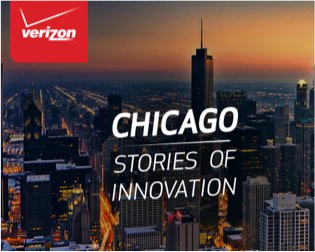
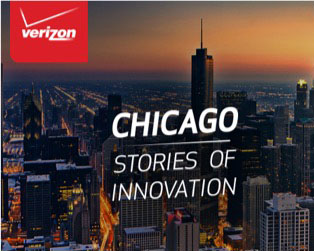
animations working !
rollover and animations working - hooray!

diff --git a/works.html b/works.html
@@ -37,55 +37,59 @@
 		      </ul>
 		 </div>
 	</div>
-	
-		<div class="box box-left all uxd mobile">
+	<div class="outer-wrapper">
+		<div id="box1" class="box all uxd mobile">
 			<div class="inner-wrapper">
-				<a href="portfolio_item.html"><img class="portfolio-thumb" src="images/thumb_chicago.jpg" alt="Verizon Chicago Timeline"></a>
+				<a href="portfolio_item.html"><img class="portfolio-thumb" src="images/thumb_chicago.jpg" alt="Verizon Chicago Timeline">
+				 <span class="overlay"><span><h4>Verizon Chicago Timeline</h4></span></span>
+				 </a>
 			</div>
-			<div class="overlay"><h3>Verizon Chicago Timeline</h3></div>
+			
 		</div>
-		<div class="box all uxd mobile">
+		<div  id="box2" class="box all uxd mobile">
 			<div class="inner-wrapper">
 				<img class="portfolio-thumb" src="images/thumb_verizon_phones.jpg" alt="Verizon Phone Picker">
+				<span class="overlay"><span><h4>Verizon Phone Picker</h4></span></span>
 			</div>
-			<div class="overlay"><h3>Verizon Phone Picker</h3></div>
 		</div>
-		<div class="box box-right all research">
+		<div  id="box3" class="box all research">
 			<div class="inner-wrapper">
 				<img class="portfolio-thumb" src="images/thumb_amex_disputes.jpg" alt="American Express Disputes Redesign">
+				<span class="overlay"><span><h4>American Experess Disputes</h4></span></span>
 			</div>
-			<div class="overlay"><h3>American Experss Disputes</h3></div>
+		
 		</div>
-		<div class="box box-left all uxd">
+		<div  id="box4" class="box all uxd">
 			<div class="inner-wrapper">
 				<a href="portfolio_item.html"><img class="portfolio-thumb" src="images/thumb_verizon_cms.jpg" alt="Verizon Retail CMS"></a>
 			</div>
 		</div>
-		<div class="box all uxd">
+		<div  id="box5" class="box all uxd">
 			<div class="inner-wrapper">
 				<img class="portfolio-thumb" src="images/thumb_details_home.jpg" alt="Details Home Page">
 			</div>
 		</div>
-		<div class="box box-right all research uxd touchscreen">
+		<div  id="box6" class="box all research uxd touchscreen">
 			<div class="inner-wrapper">
 				<img class="portfolio-thumb" src="images/thumb_capco.jpg" alt="Capco Innovation Center">
 			</div>
 		</div>
-		<div class="box box-left all mobile">
+		<div  id="box7" class="box all mobile">
 			<div class="inner-wrapper">
 				<a href="portfolio_item.html"><img class="portfolio-thumb" src="images/thumb_roebling.jpg" alt="Roebling's Brooklyn Bridge Tour"></a>
 			</div>
 		</div>
-		<div class="box all uxd ui touchscreen">
+		<div  id="box8" class="box all uxd ui touchscreen">
 			<div class="inner-wrapper">
 				<img class="portfolio-thumb" src="images/thumb_esilobby.jpg" alt="ESI Lobby">
 			</div>
 		</div>
-		<div class="box box-right all uxd">
+		<div  id="box9" class="box all uxd">
 			<div class="inner-wrapper">
 				<img class="portfolio-thumb" src="images/thumb_details_wires.jpg" alt="Details IA">
 			</div>
 		</div>
+	</div>
 
 	
 <script type="text/javascript" src="js/index.js"></script>

diff --git a/css/style.css b/css/style.css
@@ -202,23 +202,22 @@ a.smallnav:hover{
 	color:#0076BC;
 }
 
-/*this is not working for some reason...*/
-a.active:link{
+a.smallnav.active:link,
+a.smallnav.active:visited{
 	color:#0076BC;
+}
+.outer-wrapper{
+	padding:0px 20px;
 }
 
 .box{
 	width:33.33%;
 	float:left;	
-	padding: 0 20px;
-	height:254px;
-	margin-bottom:20px;
-}
-.box-left{
-  padding-right:0;
-}
-.box-right{
-  padding-left:0;
+	padding: 10px;
+	margin-top:150px;
+	opacity: 0;
+	/*padding-bottom: 10px;
+	/*height:254px;*/*/
 }
 
 .inner-wrapper{
@@ -227,15 +226,30 @@ a.active:link{
 	height:100%;
 	border: 1px solid #ccc;
 }
-/*.overlay{
-	    position: relative;
-        width: 100%;
-        height: 100%;
-        top: 0;
-        left: 0;
-        z-index: 3;
-        background-color: rgba(0,0,0,0.8); 
-        content: "";
+span.overlay{
+    position: absolute;
+    width: 100%;
+    height: 100%;
+    top: 0;
+    left: 0;
+    background-color: rgba(0,0,0,0.8); 
+    color:white;
+    opacity:0;
+    z-index: 1;
+}
+
+span.overlay span {
+    display: table;
+    width: 100%;
+    height: 100%;
+}
+span.overlay h4 {
+	display:table-cell;
+	text-align:center;
+	vertical-align:middle;
+}
+/*.box:hover .overlay {
+    opacity:1;
 }*/
 /*.inner-wrapper:hover {
         position: relative;
@@ -243,8 +257,6 @@ a.active:link{
         height: 100%;
         top: 0;
         left: 0;
-        z-index: 900;
-        background-color: rgba(0,0,0,0.8); 
         content: "";
  }*/
 
@@ -259,16 +271,17 @@ a.active:link{
 	margin-left:auto;
 	margin-right:auto;
 	position:relative;
-	/*width:100%;
-	height:100%;*/
+	z-index: 1;
+	width:100%;
+	/*height:100%;*/
 }
 
-h3{
+h4{
     font-family: 'Poppins', 'Arial', 'Helvetica', sans-serif;
 	font-size:18px;
 	font-weight: 500;
 	line-height: 18px;
-	color:red;
+	color:white;
 	z-index: 10;
 }
 
@@ -336,7 +349,6 @@ h3{
 .project_nav{
 	clear:both;
 	background-color:#e6e6e6;
-	border:1px solid #979797;
 	height:88px;
 	width:100%;
 }
@@ -356,7 +368,6 @@ a.prev:visited{
 	padding:34px 0px;
 	width:33.33%;
 	display:inline-block;
-	border: 1px solid black;
 }
 a.portfolio_link{
 	text-align: center;
@@ -451,6 +462,7 @@ input[type=button], input[type=submit], input[type=reset] {
 }
 
 label{
+  display:block;
   font-family: 'Open Sans', 'Arial', 'Helvetica', sans-serif;
   font-weight: 400;
   font-size: 18px;
@@ -458,4 +470,5 @@ label{
   color:#4a4a4a;
   margin-top:20px;
 }
+
 

diff --git a/js/index.js b/js/index.js
@@ -12,7 +12,47 @@ $("li.smallnav").on("click",function(){
  	//set the menu item to selected	
 });
 
-$(document).ready(function(){ 
-	$(".inner-wrapper::after").hide();
-	console.log("ready");
-}) 
+var boxes = ["box1","box2","box3","box4","box5","box6","box7","box8","box9"];
+
+var boxNum = 1;
+
+$(".box").hover(
+
+	function(){
+		id = $(this).attr("id");
+ 	    console.log(id);
+		console.log("on");
+		$(this).find(".overlay").animate({
+			opacity: 1
+		});
+		//$("#box1.span.overlay").fadeTo("slow",1);
+		// animate opacity to 1
+	},
+	function(){
+		console.log("off");
+		$(this).find(".overlay").animate({
+			opacity: 0
+		});
+		// animate opacity to 0
+	}
+);
+
+//when the document is ready animate the margin-top back to 0
+$( document ).ready(function() {
+	for (var i=0;i<9;i++) {
+	  slideBoxUp(i);
+	}
+});
+
+function slideBoxUp (boxIndex) {
+	console.log(boxIndex);
+	setTimeout(function(){
+	    $("#"+boxes[boxIndex]).animate({
+	    	"margin-top":0,
+	    	"opacity": 1
+	    },500, "swing");
+  },(200*boxIndex));
+};
+
+
+
